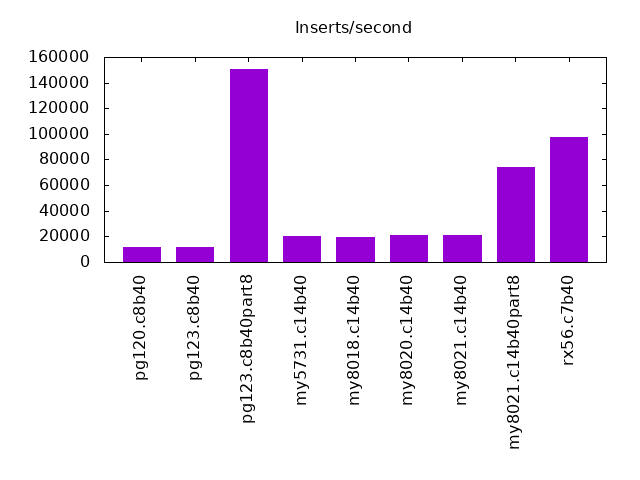
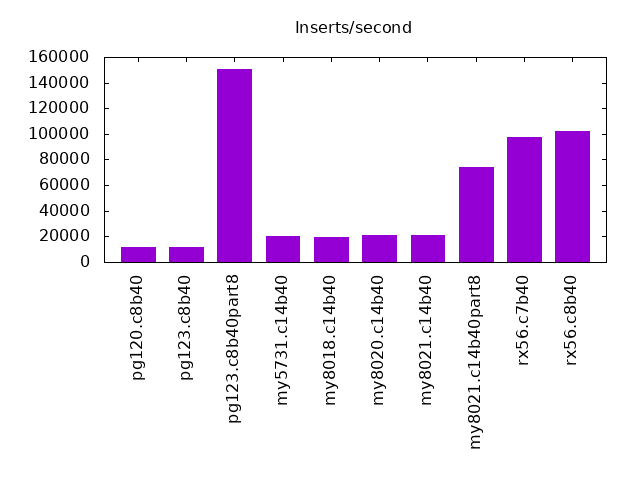
missing tests

diff --git a/reports/20_09_11_ibench_1t_8u_800m/all.html b/reports/20_09_11_ibench_1t_8u_800m/all.html
@@ -130,6 +130,7 @@ Red backgrounds are not used when the minimum value is within 80&#37 of the max 
 <tr><td>my8021.c14b40</td> <td id="cmin">111638</td><td id="cmin">58615</td><td id="cmin">20920</td><td>23881</td><td>23888</td><td id="cmax">23537</td><td id="cmax">23310</td><td id="cmax">23009</td><td id="cmax">22610</td></tr>
 <tr><td>my8021.c14b40part8</td> <td id="cmin">114646</td><td>68897</td><td>73869</td><td id="cmin">1196</td><td id="cmin">1064</td><td id="cmin">851</td><td id="cmin">645</td><td id="cmin">538</td><td id="cmin">477</td></tr>
 <tr><td>rx56.c7b40</td> <td id="cmax">369344</td><td id="cmin">60248</td><td>97205</td><td>17661</td><td>17545</td><td>17318</td><td>17246</td><td>16996</td><td>16751</td></tr>
+<tr><td>rx56.c8b40</td> <td id="cmax">373134</td><td id="cmin">62763</td><td>101911</td><td>18039</td><td>17887</td><td>17658</td><td>17643</td><td>17386</td><td>17178</td></tr>
 </table>
 <p>
 This lists the average rate of inserts/s for the tests that do inserts concurrent with queries.
@@ -157,7 +158,7 @@ Cells that are not at least 95&#37; of the target have a red background to indic
 <tr><td>my8021.c14b40</td><td>789</td><td>1580</td><td>3160</td><td>4742</td><td>6319</td><td>7895</td></tr>
 <tr><td>my8021.c14b40part8</td><td>790</td><td>1579</td><td>3160</td><td>4739</td><td>6319</td><td>7899</td></tr>
 <tr><td>rx56.c7b40</td><td>790</td><td>1580</td><td>3160</td><td>4739</td><td>6319</td><td>7899</td></tr>
-<tr><td>rx56.c8b40</td><td id="cmin"></td><td id="cmin"></td><td id="cmin"></td><td id="cmin"></td><td id="cmin"></td><td id="cmin"></td></tr>
+<tr><td>rx56.c8b40</td><td>790</td><td>1580</td><td>3158</td><td>4739</td><td>6319</td><td>7899</td></tr>
 <tr><td>target</td><td id=cgray>800</td><td id=cgray>1600</td><td id=cgray>3200</td><td id=cgray>4800</td><td id=cgray>6400</td><td id=cgray>8000</td></tr>
 </table>
 <hr />
@@ -220,6 +221,7 @@ ips	qps	rps	rkbps	wkbps	rpq	rkbpq	wkbpi	csps	cpups	cspq	cpupq	dbgb1	dbgb2	rss	ma
 111638	0	0	1	57287	0.000	0.000	0.513	111366	44.5	0.998	64	83.0	116.5	43.5	0.395	14084	10394	my8021.c14b40
 114646	0	0	1	58973	0.000	0.000	0.514	107459	45.2	0.937	63	83.2	116.8	43.5	0.365	14485	10888	my8021.c14b40part8
 369344	0	0	0	82380	0.000	0.000	0.223	36939	75.8	0.100	33	38.9	41.0	2.3	0.368	48146	31280	rx56.c7b40
+373134	0	0	0	86275	0.000	0.000	0.231	37205	76.4	0.100	33	19.3	21.4	2.4	0.392	47845	34779	rx56.c8b40
 </pre>
 <hr />
 <h1 id="l.x.graph">l.x</h1>
@@ -241,6 +243,7 @@ ips	qps	rps	rkbps	wkbps	rpq	rkbpq	wkbpi	csps	cpups	cspq	cpupq	dbgb1	dbgb2	rss	ma
 58615	0	504	39291	53604	0.009	0.670	0.915	3408	3.6	0.058	10	147.8	181.3	44.0	0.022	NA	NA	my8021.c14b40
 68897	0	486	16485	51912	0.007	0.239	0.753	4415	3.5	0.064	8	148.0	181.6	43.9	0.019	NA	NA	my8021.c14b40part8
 60248	0	564	12968	10565	0.009	0.215	0.175	1098	4.3	0.018	11	84.5	86.6	42.7	0.003	NA	NA	rx56.c7b40
+62763	0	555	9557	8666	0.009	0.152	0.138	1057	4.6	0.017	12	36.5	38.6	42.8	0.002	NA	NA	rx56.c8b40
 </pre>
 <hr />
 <h1 id="l.i1.graph">l.i1</h1>
@@ -302,6 +305,7 @@ ips	qps	rps	rkbps	wkbps	rpq	rkbpq	wkbpi	csps	cpups	cspq	cpupq	dbgb1	dbgb2	rss	ma
 20920	0	1918	30685	134432	0.092	1.467	6.426	47274	20.1	2.260	154	204.9	249.4	44.0	4.215	1898	100	my8021.c14b40
 73869	0	36	575	138560	0.000	0.008	1.876	63254	48.6	0.856	105	170.7	204.3	43.9	0.861	9939	250	my8021.c14b40part8
 97205	0	0	0	98256	0.000	0.000	1.011	31354	42.9	0.323	71	93.9	94.3	42.0	0.463	12335	8241	rx56.c7b40
+101911	0	65	341	98455	0.001	0.003	0.966	32619	43.2	0.320	68	44.0	44.4	42.1	0.288	12636	9639	rx56.c8b40
 </pre>
 <hr />
 <h1 id="q100.2.graph">q100.2</h1>
@@ -400,6 +404,7 @@ ips	qps	rps	rkbps	wkbps	rpq	rkbpq	wkbpi	csps	cpups	cspq	cpupq	dbgb1	dbgb2	rss	ma
 789	23881	505	8075	27880	0.021	0.338	35.318	97507	48.2	4.083	323	205.3	249.8	44.1	0.480	3021	2957	my8021.c14b40
 790	1196	7464	119416	9722	6.239	99.829	12.307	21799	5.4	18.223	722	171.4	205.0	44.0	1.337	160	64	my8021.c14b40part8
 790	17661	0	0	1143	0.000	0.000	1.448	72790	47.0	4.122	426	94.2	94.9	42.0	0.038	2237	2078	rx56.c7b40
+790	18039	18	235	1645	0.001	0.013	2.083	74219	46.9	4.114	416	41.8	42.5	42.1	0.068	2253	2126	rx56.c8b40
 </pre>
 <hr />
 <h1 id="q200.2.graph">q200.2</h1>
@@ -498,6 +503,7 @@ ips	qps	rps	rkbps	wkbps	rpq	rkbpq	wkbpi	csps	cpups	cspq	cpupq	dbgb1	dbgb2	rss	ma
 1580	23888	511	8180	26183	0.021	0.342	16.574	97196	48.2	4.069	323	206.3	250.8	44.1	1.208	3037	2925	my8021.c14b40
 1579	1064	7391	118258	9618	6.944	111.103	6.092	21503	5.5	20.202	827	172.8	206.4	43.7	1.681	128	32	my8021.c14b40part8
 1580	17545	0	0	2307	0.000	0.000	1.460	72390	47.2	4.126	430	94.8	96.2	42.1	0.108	2221	2046	rx56.c7b40
+1580	17887	16	233	2106	0.001	0.013	1.333	73603	47.2	4.115	422	42.1	43.5	42.1	0.059	2253	2142	rx56.c8b40
 </pre>
 <hr />
 <h1 id="q400.2.graph">q400.2</h1>
@@ -596,6 +602,7 @@ ips	qps	rps	rkbps	wkbps	rpq	rkbpq	wkbpi	csps	cpups	cspq	cpupq	dbgb1	dbgb2	rss	ma
 3160	23537	527	8438	34922	0.022	0.359	11.053	96578	49.7	4.103	338	208.4	252.9	43.7	0.890	2989	2861	my8021.c14b40
 3160	851	7077	113228	10130	8.312	132.990	3.206	21111	5.7	24.796	1071	176.0	209.5	43.7	2.006	112	32	my8021.c14b40part8
 3160	17318	1	17	4876	0.000	0.001	1.543	71553	48.3	4.132	446	96.1	99.0	42.1	0.127	2189	1998	rx56.c7b40
+3158	17658	67	940	5420	0.004	0.053	1.716	72757	48.9	4.120	443	42.5	45.4	42.2	0.063	2221	2047	rx56.c8b40
 </pre>
 <hr />
 <h1 id="q600.2.graph">q600.2</h1>
@@ -694,6 +701,7 @@ ips	qps	rps	rkbps	wkbps	rpq	rkbpq	wkbpi	csps	cpups	cspq	cpupq	dbgb1	dbgb2	rss	ma
 4742	23310	544	8710	41387	0.023	0.374	8.728	96166	50.5	4.125	347	211.3	255.8	43.7	0.810	2973	2813	my8021.c14b40
 4739	645	6879	110062	13304	10.667	170.665	2.807	21214	5.8	32.895	1439	181.2	214.7	43.7	2.313	80	16	my8021.c14b40part8
 4739	17246	7	80	6330	0.000	0.005	1.336	71392	48.8	4.140	453	98.1	99.3	42.2	0.115	2176	1983	rx56.c7b40
+4739	17643	60	782	5642	0.003	0.044	1.190	72808	49.2	4.127	446	43.5	44.6	42.2	0.203	2222	2078	rx56.c8b40
 </pre>
 <hr />
 <h1 id="q800.2.graph">q800.2</h1>
@@ -792,6 +800,7 @@ ips	qps	rps	rkbps	wkbps	rpq	rkbpq	wkbpi	csps	cpups	cspq	cpupq	dbgb1	dbgb2	rss	ma
 6319	23009	539	8630	49273	0.023	0.375	7.797	95196	52.3	4.137	364	214.5	259.0	43.7	0.826	2911	2749	my8021.c14b40
 6319	538	6854	109668	16820	12.733	203.731	2.662	22100	6.6	41.055	1962	186.9	220.5	43.7	2.889	64	16	my8021.c14b40part8
 6319	16996	121	739	9488	0.007	0.044	1.501	70685	49.8	4.159	469	100.8	100.9	42.1	0.151	2158	1966	rx56.c7b40
+6319	17386	130	1533	9260	0.007	0.088	1.465	71990	50.8	4.141	467	44.5	44.6	42.2	0.174	2190	2046	rx56.c8b40
 </pre>
 <hr />
 <h1 id="q1000.2.graph">q1000.2</h1>
@@ -890,6 +899,7 @@ ips	qps	rps	rkbps	wkbps	rpq	rkbpq	wkbpi	csps	cpups	cspq	cpupq	dbgb1	dbgb2	rss	ma
 7895	22610	586	9373	58757	0.026	0.415	7.443	95085	54.2	4.205	384	219.4	263.9	43.7	0.695	2829	2559	my8021.c14b40
 7899	477	7336	117381	25480	15.367	245.875	3.226	24682	7.5	51.701	2514	193.6	227.1	43.7	2.524	64	16	my8021.c14b40part8
 7899	16751	290	2867	13806	0.017	0.171	1.748	70004	51.1	4.179	488	103.9	107.7	42.7	0.169	2142	1934	rx56.c7b40
+7899	17178	137	1432	11453	0.008	0.083	1.450	71226	51.7	4.146	482	45.9	49.7	43.0	0.196	2174	2032	rx56.c8b40
 </pre>
 <hr />
 <h1 id="l.i0.metrics">l.i0</h1>
@@ -902,6 +912,7 @@ ips	qps	rps	rkbps	wkbps	rpq	rkbpq	wkbpi	csps	cpups	cspq	cpupq	dbgb1	dbgb2	rss	ma
 440529	0	26	214	199525	0.000	0.000	0.453	38458	81.0	0.087	29	86.1	126.1	0.0	0.345	57464	35958	pg123.c8b40
 111638	0	0	1	57287	0.000	0.000	0.513	111366	44.5	0.998	64	83.0	116.5	43.5	0.395	14084	10394	my8021.c14b40
 369344	0	0	0	82380	0.000	0.000	0.223	36939	75.8	0.100	33	38.9	41.0	2.3	0.368	48146	31280	rx56.c7b40
+373134	0	0	0	86275	0.000	0.000	0.231	37205	76.4	0.100	33	19.3	21.4	2.4	0.392	47845	34779	rx56.c8b40
 -
 441989	0	28	226	199950	0.000	0.001	0.452	38175	81.5	0.086	30	86.1	126.1	0.0	0.179	57392	36754	pg120.c8b40
 440529	0	26	214	199525	0.000	0.000	0.453	38458	81.0	0.087	29	86.1	126.1	0.0	0.345	57464	35958	pg123.c8b40
@@ -917,6 +928,7 @@ ips	qps	rps	rkbps	wkbps	rpq	rkbpq	wkbpi	csps	cpups	cspq	cpupq	dbgb1	dbgb2	rss	ma
 127632	0	0	1	66023	0.000	0.000	0.517	87366	47.4	0.685	59	85.3	118.8	46.1	0.393	16182	11987	my8021.c15b40
 -
 369344	0	0	0	82380	0.000	0.000	0.223	36939	75.8	0.100	33	38.9	41.0	2.3	0.368	48146	31280	rx56.c7b40
+373134	0	0	0	86275	0.000	0.000	0.231	37205	76.4	0.100	33	19.3	21.4	2.4	0.392	47845	34779	rx56.c8b40
 -
 444691	0	0	2	200072	0.000	0.000	0.450	39182	81.3	0.088	29	86.1	126.1	0.0	0.349	57435	37752	pg123.c8b40part8
 -
@@ -941,6 +953,7 @@ ips	qps	rps	rkbps	wkbps	rpq	rkbpq	wkbpi	csps	cpups	cspq	cpupq	dbgb1	dbgb2	rss	ma
 79179	0	1038	16330	26738	0.013	0.206	0.338	1828	4.0	0.023	8	156.6	196.6	0.0	0.009	NA	NA	pg123.c8b40
 58615	0	504	39291	53604	0.009	0.670	0.915	3408	3.6	0.058	10	147.8	181.3	44.0	0.022	NA	NA	my8021.c14b40
 60248	0	564	12968	10565	0.009	0.215	0.175	1098	4.3	0.018	11	84.5	86.6	42.7	0.003	NA	NA	rx56.c7b40
+62763	0	555	9557	8666	0.009	0.152	0.138	1057	4.6	0.017	12	36.5	38.6	42.8	0.002	NA	NA	rx56.c8b40
 -
 77695	0	1017	16016	26231	0.013	0.206	0.338	1801	4.1	0.023	8	156.6	196.6	0.0	0.009	NA	NA	pg120.c8b40
 79179	0	1038	16330	26738	0.013	0.206	0.338	1828	4.0	0.023	8	156.6	196.6	0.0	0.009	NA	NA	pg123.c8b40
@@ -956,6 +969,7 @@ ips	qps	rps	rkbps	wkbps	rpq	rkbpq	wkbpi	csps	cpups	cspq	cpupq	dbgb1	dbgb2	rss	ma
 49116	0	634	34338	45175	0.013	0.699	0.920	3503	2.7	0.071	9	150.7	184.3	46.7	0.023	NA	NA	my8021.c15b40
 -
 60248	0	564	12968	10565	0.009	0.215	0.175	1098	4.3	0.018	11	84.5	86.6	42.7	0.003	NA	NA	rx56.c7b40
+62763	0	555	9557	8666	0.009	0.152	0.138	1057	4.6	0.017	12	36.5	38.6	42.8	0.002	NA	NA	rx56.c8b40
 -
 74200	0	1417	18654	24560	0.019	0.251	0.331	2372	3.7	0.032	8	156.6	196.6	0.0	0.005	NA	NA	pg123.c8b40part8
 -
@@ -980,6 +994,7 @@ ips	qps	rps	rkbps	wkbps	rpq	rkbpq	wkbpi	csps	cpups	cspq	cpupq	dbgb1	dbgb2	rss	ma
 11587	0	3151	26276	174386	0.272	2.268	15.050	10993	22.9	0.949	316	181.2	221.3	0.0	0.772	1398	449	pg123.c8b40
 20920	0	1918	30685	134432	0.092	1.467	6.426	47274	20.1	2.260	154	204.9	249.4	44.0	4.215	1898	100	my8021.c14b40
 97205	0	0	0	98256	0.000	0.000	1.011	31354	42.9	0.323	71	93.9	94.3	42.0	0.463	12335	8241	rx56.c7b40
+101911	0	65	341	98455	0.001	0.003	0.966	32619	43.2	0.320	68	44.0	44.4	42.1	0.288	12636	9639	rx56.c8b40
 -
 11758	0	3196	26666	177142	0.272	2.268	15.066	11160	23.4	0.949	318	181.2	221.2	0.0	0.603	1398	499	pg120.c8b40
 11587	0	3151	26276	174386	0.272	2.268	15.050	10993	22.9	0.949	316	181.2	221.3	0.0	0.772	1398	449	pg123.c8b40
@@ -995,6 +1010,7 @@ ips	qps	rps	rkbps	wkbps	rpq	rkbpq	wkbpi	csps	cpups	cspq	cpupq	dbgb1	dbgb2	rss	ma
 16270	0	2630	21036	94364	0.162	1.293	5.800	54591	15.2	3.355	149	206.0	251.6	46.7	5.236	549	100	my8021.c15b40
 -
 97205	0	0	0	98256	0.000	0.000	1.011	31354	42.9	0.323	71	93.9	94.3	42.0	0.463	12335	8241	rx56.c7b40
+101911	0	65	341	98455	0.001	0.003	0.966	32619	43.2	0.320	68	44.0	44.4	42.1	0.288	12636	9639	rx56.c8b40
 -
 150376	0	904	7566	152652	0.006	0.050	1.015	35073	57.0	0.233	61	176.2	216.3	0.0	0.678	23174	350	pg123.c8b40part8
 -
@@ -1019,6 +1035,7 @@ ips	qps	rps	rkbps	wkbps	rpq	rkbpq	wkbpi	csps	cpups	cspq	cpupq	dbgb1	dbgb2	rss	ma
 789	32662	462	3798	12586	0.014	0.116	15.944	126901	38.9	3.885	191	184.4	224.5	0.0	0.018	4155	3995	pg123.c8b40
 789	23881	505	8075	27880	0.021	0.338	35.318	97507	48.2	4.083	323	205.3	249.8	44.1	0.480	3021	2957	my8021.c14b40
 790	17661	0	0	1143	0.000	0.000	1.448	72790	47.0	4.122	426	94.2	94.9	42.0	0.038	2237	2078	rx56.c7b40
+790	18039	18	235	1645	0.001	0.013	2.083	74219	46.9	4.114	416	41.8	42.5	42.1	0.068	2253	2126	rx56.c8b40
 -
 790	32582	461	3829	11942	0.014	0.118	15.118	126529	39.2	3.883	192	184.4	224.5	0.0	0.019	4140	4043	pg120.c8b40
 789	32662	462	3798	12586	0.014	0.116	15.944	126901	38.9	3.885	191	184.4	224.5	0.0	0.018	4155	3995	pg123.c8b40
@@ -1034,6 +1051,7 @@ ips	qps	rps	rkbps	wkbps	rpq	rkbpq	wkbpi	csps	cpups	cspq	cpupq	dbgb1	dbgb2	rss	ma
 790	24175	510	4077	13286	0.021	0.169	16.820	98380	47.6	4.069	315	206.4	252.1	46.2	0.742	3052	3005	my8021.c15b40
 -
 790	17661	0	0	1143	0.000	0.000	1.448	72790	47.0	4.122	426	94.2	94.9	42.0	0.038	2237	2078	rx56.c7b40
+790	18039	18	235	1645	0.001	0.013	2.083	74219	46.9	4.114	416	41.8	42.5	42.1	0.068	2253	2126	rx56.c8b40
 -
 790	13121	0	0	3891	0.000	0.000	4.926	51679	44.5	3.939	543	177.0	217.1	0.0	0.025	1662	1614	pg123.c8b40part8
 -
@@ -1058,6 +1076,7 @@ ips	qps	rps	rkbps	wkbps	rpq	rkbpq	wkbpi	csps	cpups	cspq	cpupq	dbgb1	dbgb2	rss	ma
 1579	32128	1095	9109	25915	0.034	0.284	16.413	125273	40.8	3.899	203	191.0	231.0	0.0	0.017	4123	3868	pg123.c8b40
 1580	23888	511	8180	26183	0.021	0.342	16.574	97196	48.2	4.069	323	206.3	250.8	44.1	1.208	3037	2925	my8021.c14b40
 1580	17545	0	0	2307	0.000	0.000	1.460	72390	47.2	4.126	430	94.8	96.2	42.1	0.108	2221	2046	rx56.c7b40
+1580	17887	16	233	2106	0.001	0.013	1.333	73603	47.2	4.115	422	42.1	43.5	42.1	0.059	2253	2142	rx56.c8b40
 -
 1579	31929	1095	9104	24999	0.034	0.285	15.833	124657	40.5	3.904	203	190.9	231.0	0.0	0.027	4107	3884	pg120.c8b40
 1579	32128	1095	9109	25915	0.034	0.284	16.413	125273	40.8	3.899	203	191.0	231.0	0.0	0.017	4123	3868	pg123.c8b40
@@ -1073,6 +1092,7 @@ ips	qps	rps	rkbps	wkbps	rpq	rkbpq	wkbpi	csps	cpups	cspq	cpupq	dbgb1	dbgb2	rss	ma
 1579	24061	515	4123	16732	0.021	0.171	10.597	98415	48.2	4.090	321	207.3	253.0	46.2	0.153	3021	2973	my8021.c15b40
 -
 1580	17545	0	0	2307	0.000	0.000	1.460	72390	47.2	4.126	430	94.8	96.2	42.1	0.108	2221	2046	rx56.c7b40
+1580	17887	16	233	2106	0.001	0.013	1.333	73603	47.2	4.115	422	42.1	43.5	42.1	0.059	2253	2142	rx56.c8b40
 -
 1580	13108	0	0	2907	0.000	0.000	1.840	51616	44.8	3.938	547	178.4	218.4	0.0	0.024	1662	1630	pg123.c8b40part8
 -
@@ -1097,6 +1117,7 @@ ips	qps	rps	rkbps	wkbps	rpq	rkbpq	wkbpi	csps	cpups	cspq	cpupq	dbgb1	dbgb2	rss	ma
 3160	30398	2852	23535	57890	0.094	0.774	18.322	120049	46.0	3.949	242	203.5	243.5	0.0	0.017	3979	3261	pg123.c8b40
 3160	23537	527	8438	34922	0.022	0.359	11.053	96578	49.7	4.103	338	208.4	252.9	43.7	0.890	2989	2861	my8021.c14b40
 3160	17318	1	17	4876	0.000	0.001	1.543	71553	48.3	4.132	446	96.1	99.0	42.1	0.127	2189	1998	rx56.c7b40
+3158	17658	67	940	5420	0.004	0.053	1.716	72757	48.9	4.120	443	42.5	45.4	42.2	0.063	2221	2047	rx56.c8b40
 -
 3160	30130	2836	23440	57602	0.094	0.778	18.231	119239	46.0	3.957	244	203.5	243.5	0.0	0.024	3726	3262	pg120.c8b40
 3160	30398	2852	23535	57890	0.094	0.774	18.322	120049	46.0	3.949	242	203.5	243.5	0.0	0.017	3979	3261	pg123.c8b40
@@ -1112,6 +1133,7 @@ ips	qps	rps	rkbps	wkbps	rpq	rkbpq	wkbpi	csps	cpups	cspq	cpupq	dbgb1	dbgb2	rss	ma
 3160	23842	520	4162	23061	0.022	0.175	7.299	98420	49.2	4.128	330	208.9	254.5	46.2	0.166	3037	2924	my8021.c15b40
 -
 3160	17318	1	17	4876	0.000	0.001	1.543	71553	48.3	4.132	446	96.1	99.0	42.1	0.127	2189	1998	rx56.c7b40
+3158	17658	67	940	5420	0.004	0.053	1.716	72757	48.9	4.120	443	42.5	45.4	42.2	0.063	2221	2047	rx56.c8b40
 -
 3160	13095	0	0	4569	0.000	0.000	1.446	51636	45.5	3.943	556	181.1	220.1	0.0	0.030	1662	1614	pg123.c8b40part8
 -
@@ -1136,6 +1158,7 @@ ips	qps	rps	rkbps	wkbps	rpq	rkbpq	wkbpi	csps	cpups	cspq	cpupq	dbgb1	dbgb2	rss	ma
 4670	29102	4826	39465	76744	0.166	1.356	16.433	117305	49.5	4.031	272	215.0	255.1	0.0	0.037	3516	3068	pg123.c8b40
 4742	23310	544	8710	41387	0.023	0.374	8.728	96166	50.5	4.125	347	211.3	255.8	43.7	0.810	2973	2813	my8021.c14b40
 4739	17246	7	80	6330	0.000	0.005	1.336	71392	48.8	4.140	453	98.1	99.3	42.2	0.115	2176	1983	rx56.c7b40
+4739	17643	60	782	5642	0.003	0.044	1.190	72808	49.2	4.127	446	43.5	44.6	42.2	0.203	2222	2078	rx56.c8b40
 -
 4724	28720	4890	40051	79465	0.170	1.395	16.822	116458	49.9	4.055	278	215.0	255.0	0.0	0.023	3420	3036	pg120.c8b40
 4670	29102	4826	39465	76744	0.166	1.356	16.433	117305	49.5	4.031	272	215.0	255.1	0.0	0.037	3516	3068	pg123.c8b40
@@ -1151,6 +1174,7 @@ ips	qps	rps	rkbps	wkbps	rpq	rkbpq	wkbpi	csps	cpups	cspq	cpupq	dbgb1	dbgb2	rss	ma
 4737	23521	564	4508	29371	0.024	0.192	6.201	98597	50.6	4.192	344	211.7	257.3	46.2	1.407	2942	2829	my8021.c15b40
 -
 4739	17246	7	80	6330	0.000	0.005	1.336	71392	48.8	4.140	453	98.1	99.3	42.2	0.115	2176	1983	rx56.c7b40
+4739	17643	60	782	5642	0.003	0.044	1.190	72808	49.2	4.127	446	43.5	44.6	42.2	0.203	2222	2078	rx56.c8b40
 -
 4739	13028	0	1	6447	0.000	0.000	1.360	51500	46.2	3.953	567	185.4	221.7	0.0	0.026	1646	1566	pg123.c8b40part8
 -
@@ -1175,6 +1199,7 @@ ips	qps	rps	rkbps	wkbps	rpq	rkbpq	wkbpi	csps	cpups	cspq	cpupq	dbgb1	dbgb2	rss	ma
 5436	28671	5732	46553	78955	0.200	1.624	14.523	116919	50.0	4.078	279	221.6	261.6	0.0	0.027	3484	3005	pg123.c8b40
 6319	23009	539	8630	49273	0.023	0.375	7.797	95196	52.3	4.137	364	214.5	259.0	43.7	0.826	2911	2749	my8021.c14b40
 6319	16996	121	739	9488	0.007	0.044	1.501	70685	49.8	4.159	469	100.8	100.9	42.1	0.151	2158	1966	rx56.c7b40
+6319	17386	130	1533	9260	0.007	0.088	1.465	71990	50.8	4.141	467	44.5	44.6	42.2	0.174	2190	2046	rx56.c8b40
 -
 5617	28131	5963	48513	82977	0.212	1.725	14.773	115460	50.9	4.104	289	221.5	261.6	0.0	0.023	3851	3052	pg120.c8b40
 5436	28671	5732	46553	78955	0.200	1.624	14.523	116919	50.0	4.078	279	221.6	261.6	0.0	0.027	3484	3005	pg123.c8b40
@@ -1190,6 +1215,7 @@ ips	qps	rps	rkbps	wkbps	rpq	rkbpq	wkbpi	csps	cpups	cspq	cpupq	dbgb1	dbgb2	rss	ma
 6319	23108	598	4782	35462	0.026	0.207	5.612	98199	52.7	4.250	365	215.1	260.7	46.2	0.234	2895	2781	my8021.c15b40
 -
 6319	16996	121	739	9488	0.007	0.044	1.501	70685	49.8	4.159	469	100.8	100.9	42.1	0.151	2158	1966	rx56.c7b40
+6319	17386	130	1533	9260	0.007	0.088	1.465	71990	50.8	4.141	467	44.5	44.6	42.2	0.174	2190	2046	rx56.c8b40
 -
 6316	13012	0	0	8487	0.000	0.000	1.344	51354	46.9	3.947	577	190.9	225.3	0.0	0.028	1646	1566	pg123.c8b40part8
 -
@@ -1214,6 +1240,7 @@ ips	qps	rps	rkbps	wkbps	rpq	rkbpq	wkbpi	csps	cpups	cspq	cpupq	dbgb1	dbgb2	rss	ma
 5629	28712	5980	46174	78679	0.208	1.608	13.977	117313	50.4	4.086	281	226.8	266.9	0.0	0.030	3340	3005	pg123.c8b40
 7895	22610	586	9373	58757	0.026	0.415	7.443	95085	54.2	4.205	384	219.4	263.9	43.7	0.695	2829	2559	my8021.c14b40
 7899	16751	290	2867	13806	0.017	0.171	1.748	70004	51.1	4.179	488	103.9	107.7	42.7	0.169	2142	1934	rx56.c7b40
+7899	17178	137	1432	11453	0.008	0.083	1.450	71226	51.7	4.146	482	45.9	49.7	43.0	0.196	2174	2032	rx56.c8b40
 -
 5809	27194	6090	48735	82058	0.224	1.792	14.127	111249	53.8	4.091	317	226.8	266.8	0.0	0.024	3387	2700	pg120.c8b40
 5629	28712	5980	46174	78679	0.208	1.608	13.977	117313	50.4	4.086	281	226.8	266.9	0.0	0.030	3340	3005	pg123.c8b40
@@ -1229,6 +1256,7 @@ ips	qps	rps	rkbps	wkbps	rpq	rkbpq	wkbpi	csps	cpups	cspq	cpupq	dbgb1	dbgb2	rss	ma
 7899	22762	841	6727	46128	0.037	0.296	5.840	99074	54.3	4.353	382	219.4	265.0	46.2	0.817	2861	2669	my8021.c15b40
 -
 7899	16751	290	2867	13806	0.017	0.171	1.748	70004	51.1	4.179	488	103.9	107.7	42.7	0.169	2142	1934	rx56.c7b40
+7899	17178	137	1432	11453	0.008	0.083	1.450	71226	51.7	4.146	482	45.9	49.7	43.0	0.196	2174	2032	rx56.c8b40
 -
 7899	12994	0	0	11136	0.000	0.000	1.410	51089	47.7	3.932	587	197.8	231.3	0.0	0.030	1646	1486	pg123.c8b40part8
 -

diff --git a/reports/20_09_11_ibench_1t_8u_2000m/all.html b/reports/20_09_11_ibench_1t_8u_2000m/all.html
@@ -946,12 +946,12 @@ ips	qps	rps	rkbps	wkbps	rpq	rkbpq	wkbpi	csps	cpups	cspq	cpupq	dbgb1	dbgb2	rss	ma
 -
 453515	0	0	1	192618	0.000	0.000	0.425	39303	82.3	0.087	29	215.2	255.2	0.0	0.587	58135	38854	pg123.c8b40part8
 -
-136575	0	0	1	69965	0.000	0.000	0.512	96707	40.8	0.708	48	209.3	242.8	43.4	0.517	17380	12486	my5731.c14b40part8
+144196	0	0	0	73871	0.000	0.000	0.512	97696	41.3	0.678	46	209.1	242.6	43.4	0.296	18280	14384	my5731.c14b40part8
 114659	0	0	1	59520	0.000	0.000	0.519	135359	44.2	1.181	62	208.1	241.6	43.6	0.412	14484	10887	my8018.c14b40part8
 117779	0	0	1	60806	0.000	0.000	0.516	110336	45.1	0.937	61	208.0	241.6	43.6	0.564	14883	11886	my8020.c14b40part8
 115168	0	0	1	59284	0.000	0.000	0.515	109384	45.5	0.950	63	207.1	240.7	43.6	0.408	14484	11587	my8021.c14b40part8
 -
-150886	0	0	0	78313	0.000	0.000	0.519	75528	43.5	0.501	46	217.3	250.8	46.0	0.452	19179	13884	my5731.c15b40part8
+159058	0	0	0	82524	0.000	0.000	0.519	77272	44.3	0.486	45	217.1	250.6	46.0	0.339	20178	15782	my5731.c15b40part8
 133307	0	0	1	69843	0.000	0.000	0.524	111963	47.6	0.840	57	213.6	247.2	46.1	0.513	16881	13485	my8018.c15b40part8
 133316	0	0	0	69284	0.000	0.000	0.520	86781	48.3	0.651	58	212.9	246.5	46.1	0.440	16881	13485	my8020.c15b40part8
 131010	0	0	1	68035	0.000	0.000	0.519	85572	48.6	0.653	59	212.5	246.1	46.1	0.314	16581	13285	my8021.c15b40part8
@@ -987,12 +987,12 @@ ips	qps	rps	rkbps	wkbps	rpq	rkbpq	wkbpi	csps	cpups	cspq	cpupq	dbgb1	dbgb2	rss	ma
 -
 74009	0	1346	17936	24407	0.018	0.242	0.330	2224	3.7	0.030	8	391.4	431.5	0.0	0.006	NA	NA	pg123.c8b40part8
 -
-71188	0	507	17560	58803	0.007	0.247	0.826	6580	2.9	0.092	7	371.9	405.4	43.8	0.022	NA	NA	my5731.c14b40part8
+64844	0	585	31768	53551	0.009	0.490	0.826	6556	2.6	0.101	6	371.7	405.2	43.8	0.017	NA	NA	my5731.c14b40part8
 62995	0	575	31797	52004	0.009	0.505	0.826	4050	3.3	0.064	8	370.1	403.7	44.0	0.018	NA	NA	my8018.c14b40part8
 68281	0	620	34009	56346	0.009	0.498	0.825	4374	3.2	0.064	7	370.0	403.6	44.0	0.016	NA	NA	my8020.c14b40part8
 66389	0	605	33536	54794	0.009	0.505	0.825	4421	3.1	0.067	7	369.1	402.7	44.0	0.049	NA	NA	my8021.c14b40part8
 -
-47073	0	741	26417	39114	0.016	0.561	0.831	5247	1.9	0.111	6	383.5	417.0	46.4	0.020	NA	NA	my5731.c15b40part8
+48531	0	762	27120	40328	0.016	0.559	0.831	5462	1.9	0.113	6	383.3	416.8	46.3	0.016	NA	NA	my5731.c15b40part8
 45469	0	713	25311	37731	0.016	0.557	0.830	3556	2.3	0.078	8	377.3	410.8	46.6	0.016	NA	NA	my8018.c15b40part8
 47682	0	750	27127	39568	0.016	0.569	0.830	3729	2.1	0.078	7	376.6	410.1	46.6	0.017	NA	NA	my8020.c15b40part8
 49056	0	750	25198	40704	0.015	0.514	0.830	3781	2.2	0.077	7	376.2	409.8	46.6	0.015	NA	NA	my8021.c15b40part8
@@ -1028,12 +1028,12 @@ ips	qps	rps	rkbps	wkbps	rpq	rkbpq	wkbpi	csps	cpups	cspq	cpupq	dbgb1	dbgb2	rss	ma
 -
 130506	0	1010	8807	162403	0.008	0.067	1.244	31669	54.9	0.243	67	410.8	450.9	0.0	0.813	21687	300	pg123.c8b40part8
 -
-85016	0	0	7	119575	0.000	0.000	1.407	42863	42.9	0.504	81	393.4	426.9	43.8	0.392	11587	400	my5731.c14b40part8
+89989	0	0	7	122850	0.000	0.000	1.365	43953	42.8	0.488	76	393.2	426.7	43.8	0.476	12289	450	my5731.c14b40part8
 74006	0	0	5	110368	0.000	0.000	1.491	84472	48.2	1.141	104	391.6	425.2	44.0	0.626	10148	300	my8018.c14b40part8
 77745	0	38	616	155860	0.000	0.008	2.005	65717	49.1	0.845	101	391.5	425.0	44.0	0.300	10639	300	my8020.c14b40part8
 76046	0	45	716	152376	0.001	0.009	2.004	63983	48.9	0.841	103	390.6	424.1	44.0	0.950	10434	250	my8021.c14b40part8
 -
-85379	0	0	3	96177	0.000	0.000	1.126	46991	44.3	0.550	83	402.7	436.2	46.4	0.419	11637	699	my5731.c15b40part8
+90600	0	0	4	101178	0.000	0.000	1.117	48805	44.5	0.539	79	402.5	436.0	46.3	0.425	12336	749	my5731.c15b40part8
 78431	0	1	5	87353	0.000	0.000	1.114	90093	49.2	1.149	100	396.1	429.7	46.6	0.483	10738	549	my8018.c15b40part8
 75758	0	132	1058	106683	0.002	0.014	1.408	66798	48.1	0.882	102	395.4	429.0	46.6	1.972	10688	250	my8020.c15b40part8
 73869	0	133	1066	106550	0.002	0.014	1.442	66189	48.1	0.896	104	395.0	428.6	46.6	2.809	10444	200	my8021.c15b40part8
@@ -1069,12 +1069,12 @@ ips	qps	rps	rkbps	wkbps	rpq	rkbpq	wkbpi	csps	cpups	cspq	cpupq	dbgb1	dbgb2	rss	ma
 -
 790	12652	0	0	5253	0.000	0.000	6.650	49735	45.0	3.931	569	411.5	451.5	0.0	0.029	1598	1566	pg123.c8b40part8
 -
-790	284	9102	145628	21331	32.037	512.595	27.004	21310	2.5	75.009	1408	393.9	427.4	43.5	2.104	32	16	my5731.c14b40part8
+790	277	8896	142338	21236	32.151	514.414	26.884	20870	1.7	75.423	983	393.7	427.3	43.8	2.362	32	0	my5731.c14b40part8
 790	285	9131	146089	21410	32.015	512.234	27.105	24593	2.7	86.230	1515	392.2	425.7	44.0	2.531	32	16	my8018.c14b40part8
 790	287	9234	147753	21888	32.165	514.638	27.709	25042	2.0	87.225	1115	392.0	425.6	44.0	2.322	32	16	my8020.c14b40part8
 789	270	8713	139403	21244	32.329	517.265	26.911	23934	2.0	88.809	1187	391.1	424.7	43.7	2.166	32	0	my8021.c14b40part8
 -
-790	424	10845	86762	13188	25.566	204.531	16.695	25766	2.8	60.741	1056	403.4	436.9	46.4	1.397	48	16	my5731.c15b40part8
+790	436	11121	88966	13265	25.518	204.144	16.794	26330	2.6	60.417	955	403.2	436.8	46.4	2.806	48	16	my5731.c15b40part8
 789	401	10325	82604	13166	25.769	206.148	16.678	28084	2.5	70.088	998	396.9	430.4	46.2	2.822	48	16	my8018.c15b40part8
 790	398	10233	81862	13160	25.736	205.889	16.661	28066	2.4	70.588	966	396.1	429.7	46.6	1.592	48	16	my8020.c15b40part8
 789	403	10390	83120	13114	25.756	206.049	16.613	28537	2.5	70.741	992	395.7	429.3	46.2	1.576	48	16	my8021.c15b40part8
@@ -1110,12 +1110,12 @@ ips	qps	rps	rkbps	wkbps	rpq	rkbpq	wkbpi	csps	cpups	cspq	cpupq	dbgb1	dbgb2	rss	ma
 -
 1580	12659	0	0	6779	0.000	0.000	4.291	49736	45.5	3.929	575	412.4	452.4	0.0	0.032	1598	1550	pg123.c8b40part8
 -
-1578	270	9010	144161	23224	33.432	534.919	14.717	21523	2.6	79.863	1544	395.7	429.3	43.5	2.121	32	16	my5731.c14b40part8
+1580	258	8643	138286	22647	33.474	535.578	14.335	20646	2.0	79.963	1239	395.5	429.1	43.8	2.385	32	0	my5731.c14b40part8
 1579	279	9282	148520	23738	33.307	532.904	15.034	25518	3.3	91.560	1895	393.9	427.5	44.0	1.941	32	16	my8018.c14b40part8
 1579	278	9256	148099	23494	33.260	532.158	14.880	25998	2.0	93.416	1150	393.6	427.2	44.0	3.132	32	0	my8020.c14b40part8
 1579	259	8673	138773	22618	33.514	536.218	14.325	24389	2.0	94.240	1237	392.9	426.5	43.7	2.622	32	0	my8021.c14b40part8
 -
-1580	413	10986	87890	16541	26.595	212.758	10.470	26577	3.5	64.335	1356	405.3	438.9	46.4	1.757	48	32	my5731.c15b40part8
+1578	418	11076	88607	16457	26.529	212.232	10.429	26669	2.9	63.878	1111	405.2	438.8	46.4	2.072	48	16	my5731.c15b40part8
 1579	392	10534	84275	16543	26.874	214.988	10.478	29926	3.5	76.343	1429	398.8	432.3	46.2	2.562	48	16	my8018.c15b40part8
 1579	382	10267	82136	16409	26.849	214.790	10.392	29764	3.3	77.836	1381	398.0	431.6	46.6	1.864	48	16	my8020.c15b40part8
 1576	399	10680	85443	16766	26.761	214.090	10.637	30828	3.5	77.245	1403	397.6	431.2	46.2	2.204	48	16	my8021.c15b40part8
@@ -1151,12 +1151,12 @@ ips	qps	rps	rkbps	wkbps	rpq	rkbpq	wkbpi	csps	cpups	cspq	cpupq	dbgb1	dbgb2	rss	ma
 -
 3160	12600	8	68	8505	0.001	0.005	2.692	49585	46.3	3.935	588	414.6	454.3	0.0	0.032	1614	1518	pg123.c8b40part8
 -
-3158	256	9217	147476	33216	35.935	574.956	10.519	23205	3.8	90.468	2370	402.6	436.1	43.5	1.737	32	16	my5731.c14b40part8
+3154	244	8770	140317	32133	36.016	576.251	10.187	21965	2.7	90.206	1774	402.4	435.9	43.8	3.009	32	16	my5731.c14b40part8
 3156	252	9043	144694	32897	35.829	573.271	10.423	26545	4.2	105.171	2662	400.7	434.3	44.0	2.232	32	16	my8018.c14b40part8
 3151	253	9083	145333	33137	35.931	574.893	10.517	27007	3.1	106.832	1962	400.4	433.9	44.0	2.825	32	0	my8020.c14b40part8
 3156	237	8551	136821	31151	36.021	576.331	9.870	25667	3.0	108.118	2022	399.7	433.3	43.7	2.316	32	0	my8021.c14b40part8
 -
-3154	373	10915	87317	23495	29.254	234.032	7.448	27799	4.0	74.508	1715	411.0	444.5	46.4	1.599	48	16	my5731.c15b40part8
+3156	392	11455	91643	23542	29.193	233.546	7.459	28667	3.8	73.055	1549	410.8	444.3	46.4	1.730	48	16	my5731.c15b40part8
 3153	357	10524	84191	23534	29.479	235.830	7.465	32524	4.2	91.104	1882	404.3	437.9	46.2	2.475	48	0	my8018.c15b40part8
 3153	350	10370	82962	23357	29.629	237.033	7.409	32844	3.9	93.841	1783	403.5	437.1	46.6	1.831	48	16	my8020.c15b40part8
 3160	365	10772	86173	23668	29.479	235.833	7.491	33691	4.4	92.202	1927	403.1	436.7	46.2	2.070	48	16	my8021.c15b40part8
@@ -1192,12 +1192,12 @@ ips	qps	rps	rkbps	wkbps	rpq	rkbpq	wkbpi	csps	cpups	cspq	cpupq	dbgb1	dbgb2	rss	ma
 -
 4739	12524	1	5	12341	0.000	0.000	2.604	49289	47.2	3.935	603	420.3	458.0	0.0	0.037	1583	1455	pg123.c8b40part8
 -
-4739	248	9249	147982	40600	37.279	596.460	8.567	24159	4.8	97.375	3096	410.0	443.5	43.5	2.401	32	16	my5731.c14b40part8
+4737	220	8410	134555	39957	38.174	610.782	8.435	21973	3.4	99.739	2469	409.7	443.3	43.9	1.743	32	0	my5731.c14b40part8
 4737	235	8872	141953	40652	37.705	603.284	8.582	28314	5.4	120.332	3672	408.2	441.8	44.0	1.820	32	16	my8018.c14b40part8
 4714	240	9005	144073	40532	37.535	600.556	8.599	29255	4.3	121.947	2868	407.7	441.3	44.0	3.525	32	0	my8020.c14b40part8
 4729	226	8572	137160	39641	37.864	605.831	8.383	28140	4.2	124.293	2968	407.1	440.6	43.7	2.191	32	0	my8021.c14b40part8
 -
-4739	345	10693	85545	29161	30.986	247.884	6.153	28784	5.2	83.407	2411	418.1	451.7	46.4	1.962	48	16	my5731.c15b40part8
+4737	365	11181	89445	29732	30.607	244.854	6.277	29890	4.8	81.823	2102	417.8	451.4	46.4	1.342	48	16	my5731.c15b40part8
 4729	344	10678	85420	29020	31.012	248.097	6.137	34697	5.5	100.774	2556	411.2	444.8	46.2	2.271	48	16	my8018.c15b40part8
 4729	329	10299	82390	28631	31.313	250.502	6.054	34960	5.1	106.295	2481	410.5	444.0	46.6	2.385	48	16	my8020.c15b40part8
 4732	347	10739	85912	29277	30.984	247.870	6.188	35897	5.6	103.568	2585	410.0	443.6	46.2	1.482	48	16	my8021.c15b40part8
@@ -1233,12 +1233,12 @@ ips	qps	rps	rkbps	wkbps	rpq	rkbpq	wkbpi	csps	cpups	cspq	cpupq	dbgb1	dbgb2	rss	ma
 -
 6319	12441	455	7041	17460	0.037	0.566	2.763	49629	47.9	3.989	616	430.4	467.0	0.0	0.032	1582	1454	pg123.c8b40part8
 -
-6319	234	8930	142877	42232	38.211	611.369	6.683	24534	5.7	104.983	3902	413.6	447.1	43.5	2.248	32	16	my5731.c14b40part8
+6319	212	8251	132012	40699	39.011	624.171	6.440	21859	4.3	103.354	3253	413.1	446.7	43.9	2.361	32	0	my5731.c14b40part8
 6316	231	8817	141072	41391	38.202	611.230	6.554	28690	6.4	124.306	4437	411.8	445.4	44.0	2.077	32	0	my8018.c14b40part8
 6319	234	8915	142644	41226	38.132	610.110	6.524	28580	5.4	122.243	3696	411.0	444.6	44.0	2.301	32	16	my8020.c14b40part8
 6312	225	8632	138111	41527	38.381	614.100	6.579	28552	5.5	126.954	3913	410.5	444.1	43.7	2.476	32	0	my8021.c14b40part8
 -
-6319	342	10615	84919	29047	31.029	248.229	4.597	29486	6.7	86.190	3134	422.3	456.7	46.4	1.986	48	16	my5731.c15b40part8
+6319	360	11088	88702	29647	30.782	246.259	4.692	30519	6.5	84.728	2887	422.0	456.4	46.4	1.354	48	16	my5731.c15b40part8
 6312	336	10486	83892	28820	31.256	250.050	4.566	33846	6.5	100.881	3100	415.4	449.7	46.2	3.101	48	0	my8018.c15b40part8
 6319	329	10325	82602	28328	31.412	251.300	4.483	34392	6.5	104.630	3164	414.7	448.9	46.6	1.661	48	16	my8020.c15b40part8
 6316	336	10558	84467	29527	31.433	251.464	4.675	34804	6.6	103.615	3144	414.3	448.6	46.2	1.579	48	16	my8021.c15b40part8
@@ -1274,12 +1274,12 @@ ips	qps	rps	rkbps	wkbps	rpq	rkbpq	wkbpi	csps	cpups	cspq	cpupq	dbgb1	dbgb2	rss	ma
 -
 7899	12416	638	9573	19732	0.051	0.771	2.498	49926	48.7	4.021	628	436.8	473.3	0.0	0.036	1582	1390	pg123.c8b40part8
 -
-7895	231	9045	144713	44858	39.222	627.550	5.682	24404	5.9	105.829	4094	418.2	451.7	43.5	1.792	32	16	my5731.c14b40part8
+7899	220	8742	139872	46259	39.773	636.361	5.856	24461	5.6	111.286	4076	418.0	451.5	43.8	2.415	32	0	my5731.c14b40part8
 7886	224	8864	141827	44370	39.502	632.029	5.626	29491	6.7	131.423	4777	416.5	450.1	44.0	2.015	32	0	my8018.c14b40part8
 7877	231	9102	145637	45610	39.387	630.190	5.790	30658	6.4	132.662	4431	415.7	449.2	44.0	3.442	32	0	my8020.c14b40part8
 7895	223	8818	141093	44951	39.615	633.843	5.694	29717	6.5	133.497	4672	415.2	448.8	43.7	2.735	32	0	my8021.c14b40part8
 -
-7895	321	10443	83545	32437	32.543	260.345	4.109	29694	7.6	92.532	3789	426.7	461.3	46.1	2.030	48	16	my5731.c15b40part8
+7895	335	10788	86307	31981	32.166	257.326	4.051	30039	7.0	89.562	3339	426.3	461.0	46.4	1.931	48	16	my5731.c15b40part8
 7895	335	10800	86397	31824	32.276	258.209	4.031	35747	7.6	106.836	3634	419.8	454.3	46.2	2.379	48	16	my8018.c15b40part8
 7860	320	10403	83228	30951	32.531	260.249	3.938	36061	7.5	112.761	3752	418.9	453.4	46.2	2.651	48	16	my8020.c15b40part8
 7886	320	10425	83398	31785	32.577	260.619	4.031	35886	7.6	112.143	3800	418.6	453.1	46.2	2.244	48	16	my8021.c15b40part8
